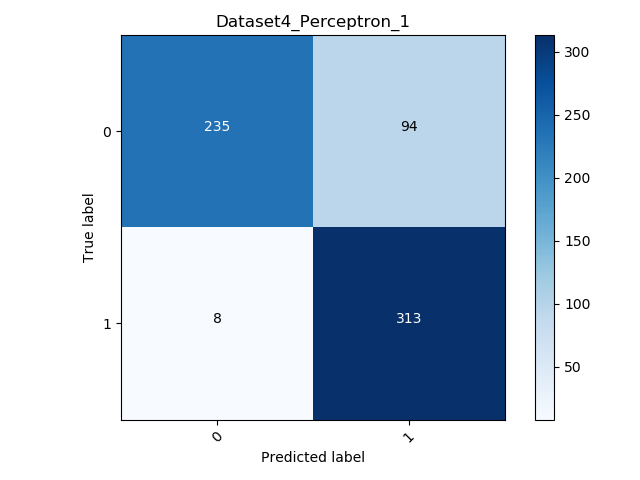
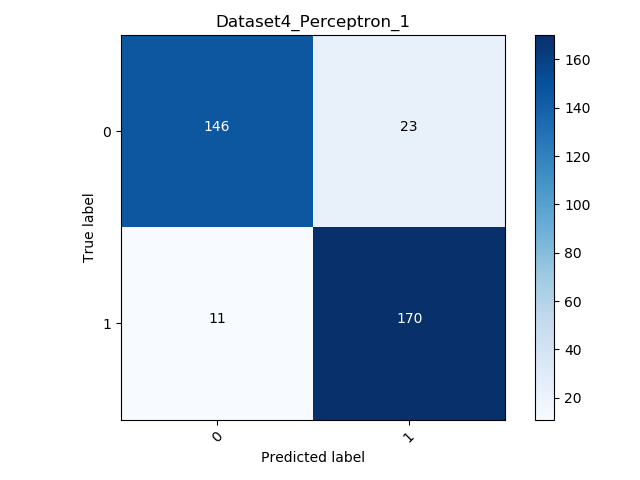
modified perceptron with val

diff --git a/PA2/pa2.py b/PA2/pa2.py
@@ -1,6 +1,5 @@
 import numpy as np
 from sklearn.metrics import confusion_matrix
-import sklearn.datasets
 import confusion_matrix as cf_mat
 import matplotlib.pyplot as plt
 from random import randint
@@ -64,90 +63,106 @@ def getConfusion(y, pred, name) :
     plt.figure()
     cf_mat.plot_confusion_matrix(cnf_matrix, classes=class_names,title=name)
     plt.savefig("results/"+name)
-    # plt.show()
     return
 
-# X, y = sklearn.datasets.make_classification(n_samples=30, n_features=2, n_informative=2, n_redundant=0, n_repeated=0, class_sep = 3, n_classes=2)
-# f = plt.figure(1)
-# plt.scatter(X[:,0],X[:,1],c=y)
-# plt.savefig("results/dummy_scatter")
-#
-# w_init = np.array(np.random.rand(2))
-# etas = [0.01, 0.1, 1, 10]
-# for i in range(len(etas)):
-#     w = runPerceptron(w_init, X, y, etas[i])
-#     print(etas[i], w, accuracy(w, X, y))
-#     getConfusion(y, predictions(w, X), "Dummy Perceptron "+str(i))
+# range of learning rates for perceptron algorithm
+etas = [0.01, 0.1, 1, 10]
 
-# read datasets
+# three different types of initialisation of the weight vector - zero, constant, random
+weights = [np.random.rand()*np.array([1, 1]), np.array(np.random.rand(2))]
+
+# read dataset
 data1 = np.loadtxt("../Datasets_PRML_A2/Dataset_2_Team_39.csv", delimiter=',', dtype=None)
-
-data2 = np.loadtxt("../Datasets_PRML_A2/Dataset_4_Team_39.csv", delimiter=',', dtype=None)
 
 # shuffling
 np.random.shuffle(data1)
 
-# splitting into train, test - 65, 35
-train_size = int(0.65*data1.shape[0])
+# splitting into train, val, test
+train_size = int(0.65*0.8*data1.shape[0])
+val_size = int(0.65*0.2*data1.shape[0])
 test_size = int(0.35*data1.shape[0])
 
 X_train = data1[:train_size,:2]
 y_train = data1[:train_size,-1]
 
-X_test = data1[train_size:train_size+test_size,:2]
-y_test = data1[train_size:train_size+test_size,-1]
+X_val = data1[train_size:train_size+val_size,:2]
+y_val = data1[train_size:train_size+val_size,-1]
+
+X_test = data1[train_size+val_size:train_size+val_size+test_size,:2]
+y_test = data1[train_size+val_size:train_size+val_size+test_size,-1]
+
+acc_train_data1 = []
+acc_val_data1 = []
+acc_test_data1 = []
 
 print("Dataset 2")
 print("Number of features = 2")
-print("Size of train and test sets =", X_train.shape, X_test.shape)
+print("Size of train, validation and test sets =", X_train.shape, X_val.shape, X_test.shape)
 classes, counts = np.unique(y_train, return_counts=True)
 print("Number of classes =", len(classes))
 print("Counts for each class =", counts)
 print("\n")
 
-# random initial choice of w
-w_init = np.array(np.random.rand(2))
-print("Initial w =", w_init)
+for w_init in weights:
+    print("Initial w =", w_init)
+    for i in range(len(etas)):
+        # training
+        w_train = runPerceptron(w_init, X_train, y_train, etas[i])
+        acc_train_data1.append(accuracy(w_train, X_train, y_train))
+        # validation
+        acc_val_data1.append(accuracy(w_train, X_val, y_val))
+        # test
+        acc_test_data1.append(accuracy(w_train, X_test, y_test))
+        getConfusion(y_test, predictions(w_train, X_test), "Dataset2_Perceptron_"+str(i))
 
-etas = [0.01, 0.1, 1, 10]
-for i in range(len(etas)):
-    w_train = runPerceptron(w_init, X_train, y_train, etas[i])
-    print(etas[i], w_train, accuracy(w_train, X_train, y_train))
-    getConfusion(y_train, predictions(w_train, X_train), "Dataset2_Perceptron_"+str(i))
-    # w_test = runPerceptron(w_init, X_test, y_test, etas[i])
-    # print(etas[i], w_test, accuracy(w_test, X_test, y_test))
-    # getConfusion(y_test, predictions(w_test, X_test), "Dataset2_Perceptron_"+str(i))
+np.savetxt('results/Perceptron_train_acc_ds2',acc_train_data1,fmt='%.2f')
+np.savetxt('results/Perceptron_val_acc_ds2',acc_val_data1,fmt='%.2f')
+np.savetxt('results/Perceptron_test_acc_ds2',acc_test_data1,fmt='%.2f')
+
+# read dataset
+data2 = np.loadtxt("../Datasets_PRML_A2/Dataset_4_Team_39.csv", delimiter=',', dtype=None)
 
 # shuffling
 np.random.shuffle(data2)
 
-# splitting into train, test - 65, 35
-train_size = int(0.65*data2.shape[0])
+# splitting into train, val, test
+train_size = int(0.65*0.8*data2.shape[0])
+val_size = int(0.65*0.2*data2.shape[0])
 test_size = int(0.35*data2.shape[0])
 
 X_train = data2[:train_size,:2]
 y_train = data2[:train_size,-1]
 
-X_test = data2[train_size:train_size+test_size,:2]
-y_test = data2[train_size:train_size+test_size,-1]
+X_val = data2[train_size:train_size+val_size,:2]
+y_val = data2[train_size:train_size+val_size,-1]
+
+X_test = data2[train_size+val_size:train_size+val_size+test_size,:2]
+y_test = data2[train_size+val_size:train_size+val_size+test_size,-1]
+
+acc_train_data2 = []
+acc_val_data2 = []
+acc_test_data2 = []
 
 print("Dataset 4")
 print("Number of features = 2")
-print("Size of train and test sets =", X_train.shape, X_test.shape)
+print("Size of train, validation and test sets =", X_train.shape, X_val.shape, X_test.shape)
 classes, counts = np.unique(y_train, return_counts=True)
 print("Number of classes =", len(classes))
 print("Counts for each class =", counts)
 print("\n")
 
-# random initial choice of w
-w_init = np.array(np.random.rand(2))
-print("Initial w =", w_init)
+for w_init in weights:
+    print("Initial w =", w_init)
+    for i in range(len(etas)):
+        # training
+        w_train = runPerceptron(w_init, X_train, y_train, etas[i])
+        acc_train_data2.append(accuracy(w_train, X_train, y_train))
+        # validation
+        acc_val_data2.append(accuracy(w_train, X_val, y_val))
+        # test
+        acc_test_data2.append(accuracy(w_train, X_test, y_test))
+        getConfusion(y_test, predictions(w_train, X_test), "Dataset4_Perceptron_"+str(i))
 
-etas = [0.01, 0.1, 1, 10]
-for i in range(len(etas)):
-    w_train = runPerceptron(w_init, X_train, y_train, etas[i])
-    print(etas[i], w_train, accuracy(w_train, X_train, y_train))
-    getConfusion(y_train, predictions(w_train, X_train), "Dataset4_Perceptron_"+str(i))
-    # w_test = runPerceptron(w_init, X_test, y_test, etas[i])
-    # print(etas[i], w_test, accuracy(w_test, X_test, y_test))
-    # getConfusion(y_test, predictions(w_test, X_test), "Dataset4_Perceptron_"+str(i))
+np.savetxt('results/Perceptron_train_acc_ds4',acc_train_data2,fmt='%.2f')
+np.savetxt('results/Perceptron_val_acc_ds4',acc_val_data2,fmt='%.2f')
+np.savetxt('results/Perceptron_test_acc_ds4',acc_test_data2,fmt='%.2f')
